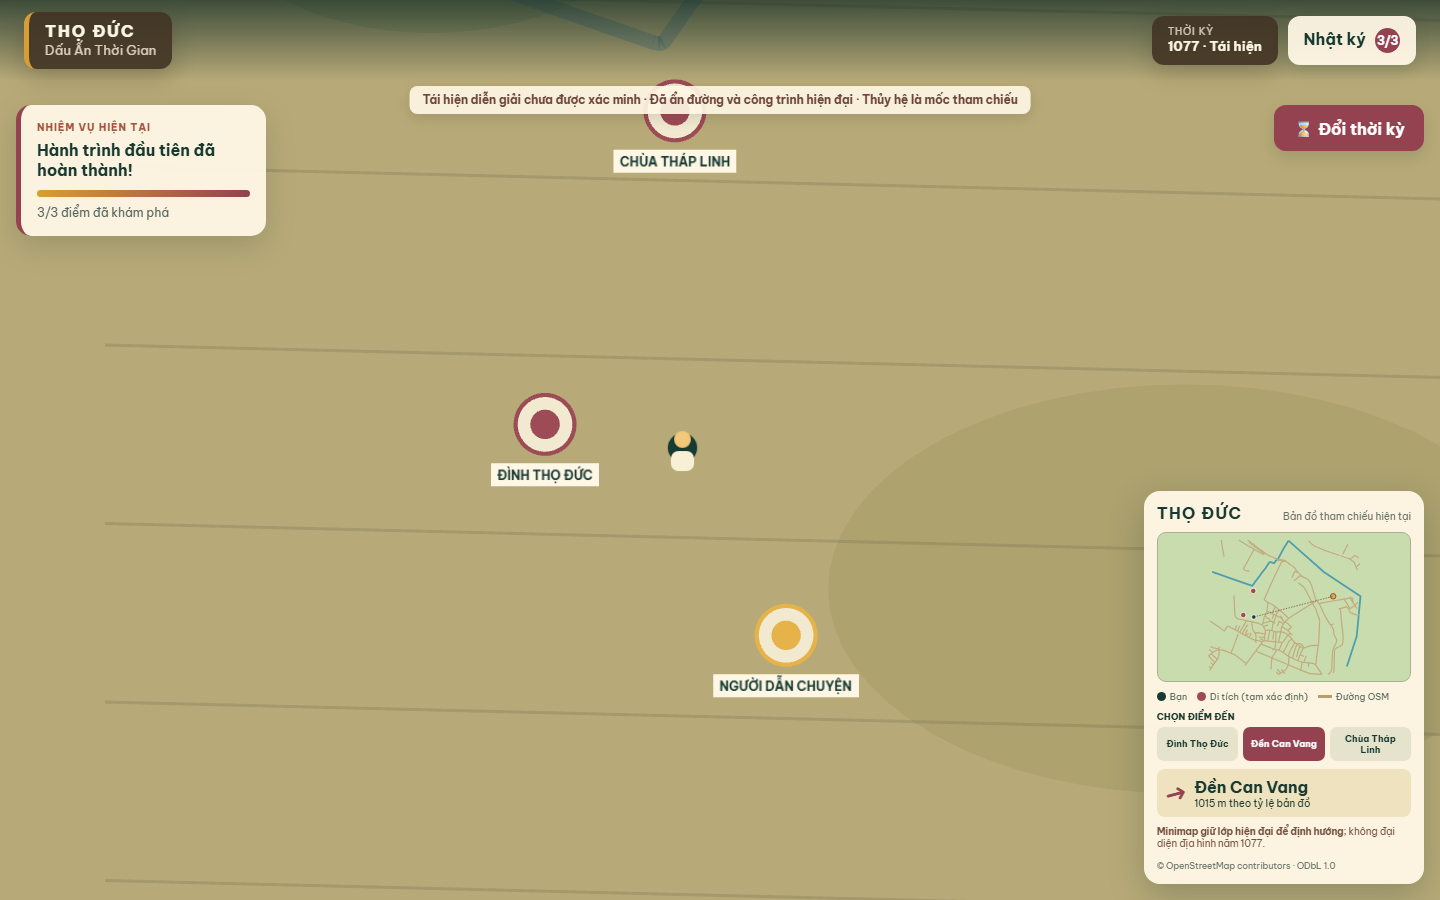
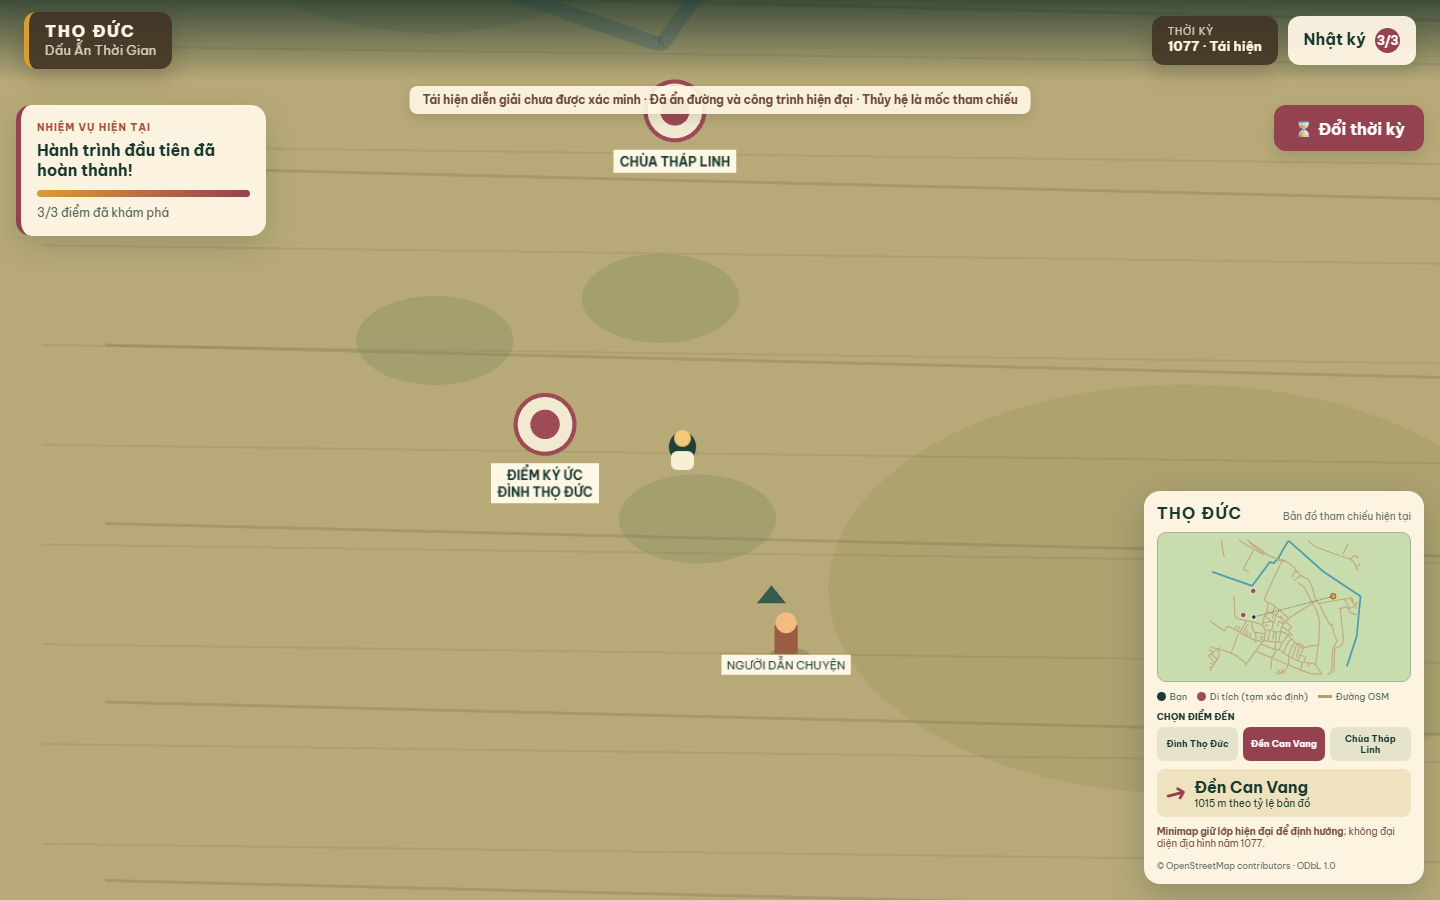
update Sprint 03A.2 – Integrate Visual Asset Foundation

Changed region(s): [[0.4688, 0.6533, 0.5938, 0.7778], [0.3438, 0.4978, 0.4375, 0.56]]

diff --git a/src/app/App.tsx b/src/app/App.tsx
@@ -1,5 +1,7 @@
 import { useCallback, useEffect, useMemo, useState } from 'react';
 import { GameCanvas } from '../game/GameCanvas';
+import { loadAssetRegistry } from '../assets/loadAssetRegistry';
+import type { AssetRegistry } from '../assets/AssetRegistry';
 import { loadContent } from '../content/loadContent';
 import { GameSession } from '../services/GameSession';
 import { SaveService } from '../services/SaveService';
@@ -16,6 +18,7 @@ type Modal = { type: 'guide'; step: number } | { type: 'location'; location: Her
 
 export default function App() {
   const [content, setContent] = useState<GameContent | null>(null);
+  const [assetRegistry, setAssetRegistry] = useState<AssetRegistry | null>(null);
   const [phase, setPhase] = useState<Phase>('loading');
   const [loadError, setLoadError] = useState('');
   const [state, setState] = useState<GameState>(createInitialState());
@@ -27,8 +30,8 @@ export default function App() {
 
   useEffect(() => {
     let active = true;
-    loadContent()
-      .then((loaded) => { if (active) { setContent(loaded); setPhase('menu'); } })
+    Promise.all([loadContent(), loadAssetRegistry()])
+      .then(([loaded, registry]) => { if (active) { setContent(loaded); setAssetRegistry(registry); setPhase('menu'); } })
       .catch((error: unknown) => { if (active) { setLoadError(error instanceof Error ? error.message : 'Không thể tải dữ liệu trò chơi.'); setPhase('error'); } });
     return () => { active = false; };
   }, []);
@@ -82,7 +85,7 @@ export default function App() {
   };
 
   if (phase === 'loading') return <main className="loading-screen"><div className="loader" /><h1>Đang mở hành trình…</h1><p>Đang tải bản đồ và dữ liệu minh họa</p></main>;
-  if (phase === 'error' || !session) return <main className="fatal-error"><h1>Không thể khởi động</h1><p>{loadError}</p><button onClick={() => window.location.reload()}>Thử lại</button></main>;
+  if (phase === 'error' || !session || !assetRegistry) return <main className="fatal-error"><h1>Không thể khởi động</h1><p>{loadError}</p><button onClick={() => window.location.reload()}>Thử lại</button></main>;
 
   if (phase === 'menu') {
     return (
@@ -107,7 +110,7 @@ export default function App() {
   const eraLabel = state.activeEra === 'present' ? 'Hiện tại' : '1077 · Tái hiện';
   return (
     <main className={`game-shell era-${state.activeEra}`}>
-      <GameCanvas session={session} />
+      <GameCanvas session={session} assetRegistry={assetRegistry} />
       <header className="game-header">
         <div className="brand-mark"><span>THỌ ĐỨC</span><small>Dấu Ấn Thời Gian</small></div>
         <div className="status-group">

diff --git a/src/game/rendering/VillageArtRenderer.ts b/src/game/rendering/VillageArtRenderer.ts
@@ -1,8 +1,9 @@
 import Phaser from 'phaser';
+import type { AssetRegistry } from '../../assets/AssetRegistry';
 import type { EraId, GeographicMap } from '../../shared/types/content';
 
 /** Procedural, original placeholder art; replaceable without changing geographic data. */
-export function renderVillageArt(scene: Phaser.Scene, layer: Phaser.GameObjects.Container, map: GeographicMap, era: EraId): void {
+export function renderVillageArt(scene: Phaser.Scene, layer: Phaser.GameObjects.Container, map: GeographicMap, era: EraId, registry: AssetRegistry): void {
   const historical = era === 'ly_1077';
   const dinh = map.heritage.find((place) => place.id === 'dinh_tho_duc')!.world;
   const texture = scene.add.graphics().lineStyle(2, historical ? 0x776b48 : 0x6b8b54, .18);
@@ -14,9 +15,14 @@ export function renderVillageArt(scene: Phaser.Scene, layer: Phaser.GameObjects.
     ].forEach(([x, y]) => layer.add(scene.add.ellipse(x, y, 150, 85, 0x7a8759, .32).setDepth(y)));
     return;
   }
-  drawCommunalHouse(scene, layer, dinh.x, dinh.y - 75);
-  [[dinh.x - 150, dinh.y - 105], [dinh.x + 135, dinh.y - 115], [dinh.x - 130, dinh.y + 75], [dinh.x + 165, dinh.y + 100], [dinh.x + 55, dinh.y + 135]].forEach(([x, y]) => drawTree(scene, layer, x, y));
-  [[dinh.x - 235, dinh.y + 45], [dinh.x + 245, dinh.y - 5], [dinh.x + 210, dinh.y + 160]].forEach(([x, y]) => drawHouse(scene, layer, x, y));
+  const communalHouse = registry.getHeritage('dinh_tho_duc', era);
+  if (communalHouse) drawCommunalHouse(scene, layer, dinh.x + communalHouse.offset.x, dinh.y + communalHouse.offset.y);
+  if (registry.get('tree-procedural')?.eras.includes(era)) {
+    [[dinh.x - 150, dinh.y - 105], [dinh.x + 135, dinh.y - 115], [dinh.x - 130, dinh.y + 75], [dinh.x + 165, dinh.y + 100], [dinh.x + 55, dinh.y + 135]].forEach(([x, y]) => drawTree(scene, layer, x, y));
+  }
+  if (registry.get('house-procedural')?.eras.includes(era)) {
+    [[dinh.x - 235, dinh.y + 45], [dinh.x + 245, dinh.y - 5], [dinh.x + 210, dinh.y + 160]].forEach(([x, y]) => drawHouse(scene, layer, x, y));
+  }
 }
 
 function drawTree(scene: Phaser.Scene, layer: Phaser.GameObjects.Container, x: number, y: number): void {

diff --git a/src/game/scenes/VillageScene.ts b/src/game/scenes/VillageScene.ts
@@ -2,6 +2,7 @@ import Phaser from 'phaser';
 import type { EraId, MapFeature } from '../../shared/types/content';
 import type { InteractionTarget } from '../../shared/events/GameEvents';
 import type { GameSession } from '../../services/GameSession';
+import type { AssetRegistry } from '../../assets/AssetRegistry';
 import { NavigationService } from '../../services/NavigationService';
 import { getEraVisualLayers } from '../../services/MapLayerService';
 import { renderVillageArt } from '../rendering/VillageArtRenderer';
@@ -24,7 +25,7 @@ export class VillageScene extends Phaser.Scene {
   private renderedEra: EraId | null = null;
   private facing: 'up' | 'down' | 'left' | 'right' = 'down';
 
-  constructor(private readonly session: GameSession) { super('village'); }
+  constructor(private readonly session: GameSession, private readonly assetRegistry: AssetRegistry) { super('village'); }
 
   create(): void {
     const { width, height } = this.session.content.map.projection.world;
@@ -125,7 +126,7 @@ export class VillageScene extends Phaser.Scene {
       this.drawLines(layers.footpaths, 0xeee1bf, 8);
       this.drawPolygons(layers.buildings, 0x9a624b, 0.95, 0x5e4635);
     }
-    renderVillageArt(this, this.eraLayer, this.session.content.map, era);
+    renderVillageArt(this, this.eraLayer, this.session.content.map, era, this.assetRegistry);
     const label = this.add.text(95, 95, historical ? 'THỌ ĐỨC · TÁI HIỆN DIỄN GIẢI 1077' : 'THỌ ĐỨC · BẢN ĐỒ HIỆN TẠI', { fontFamily: '"Be Vietnam Pro", sans-serif', fontSize: '18px', color: historical ? '#493b2c' : '#173b33', fontStyle: 'bold' });
     const note = historical ? this.add.text(95, 124, 'Không hiển thị đường/công trình hiện đại · Thủy hệ chỉ là mốc tham chiếu hiện nay', { fontFamily: '"Be Vietnam Pro", sans-serif', fontSize: '13px', color: '#584a36', backgroundColor: '#e6d7a8', padding: { x: 8, y: 5 } }) : null;
     this.eraLayer.add(note ? [label, note] : label);

diff --git a/tests/unit/AssetRegistry.test.ts b/tests/unit/AssetRegistry.test.ts
@@ -1,5 +1,6 @@
 import { describe, expect, it } from 'vitest';
 import { AssetRegistry } from '../../src/assets/AssetRegistry';
+import { loadAssetRegistry } from '../../src/assets/loadAssetRegistry';
 import { validateAssetManifest, validateHeritageVisuals } from '../../src/assets/AssetValidator';
 import manifestJson from '../../public/data/asset-manifest.json';
 import visualsJson from '../../public/data/heritage-visuals.json';
@@ -30,5 +31,9 @@ describe('Visual Asset Foundation', () => {
   it('builds base-path-safe URLs', () => {
     expect(AssetRegistry.assetUrl({ ...manifest.assets[0], path: 'art/player.png' }, '/KhamPhaThoDuc/')).toBe('/KhamPhaThoDuc/art/player.png');
     expect(AssetRegistry.assetUrl(manifest.assets[0], '/KhamPhaThoDuc/')).toBeUndefined();
+  });
+  it('surfaces a visual metadata load failure', async () => {
+    const failedFetch: typeof fetch = async () => new Response('', { status: 503 });
+    await expect(loadAssetRegistry(failedFetch)).rejects.toThrow('Unable to load visual metadata (503).');
   });
 });

diff --git a/src/game/GameCanvas.tsx b/src/game/GameCanvas.tsx
@@ -1,20 +1,21 @@
 import { useEffect, useRef } from 'react';
 import type Phaser from 'phaser';
+import type { AssetRegistry } from '../assets/AssetRegistry';
 import type { GameSession } from '../services/GameSession';
 import { createGame } from './config/createGame';
 
-export function GameCanvas({ session }: { session: GameSession }) {
+export function GameCanvas({ session, assetRegistry }: { session: GameSession; assetRegistry: AssetRegistry }) {
   const hostRef = useRef<HTMLDivElement>(null);
   const gameRef = useRef<Phaser.Game | null>(null);
 
   useEffect(() => {
     if (!hostRef.current || gameRef.current) return;
-    gameRef.current = createGame(hostRef.current, session);
+    gameRef.current = createGame(hostRef.current, session, assetRegistry);
     return () => {
       gameRef.current?.destroy(true);
       gameRef.current = null;
     };
-  }, [session]);
+  }, [assetRegistry, session]);
 
   return <div className="game-canvas" ref={hostRef} aria-label="Bản đồ địa lý Thọ Đức" />;
 }

diff --git a/src/assets/loadAssetRegistry.ts b/src/assets/loadAssetRegistry.ts
@@ -1,0 +1,18 @@
+import { AssetRegistry } from './AssetRegistry';
+import type { AssetManifest, HeritageVisual } from './types';
+
+async function loadJson(url: string, fetcher: typeof fetch): Promise<unknown> {
+  const response = await fetcher(url);
+  if (!response.ok) throw new Error(`Unable to load visual metadata (${response.status}).`);
+  return response.json();
+}
+
+/** Loads and validates declarative visual metadata from the Vite public base. */
+export async function loadAssetRegistry(fetcher: typeof fetch = fetch): Promise<AssetRegistry> {
+  const baseUrl = import.meta.env.BASE_URL;
+  const [manifest, heritageVisuals] = await Promise.all([
+    loadJson(`${baseUrl}data/asset-manifest.json`, fetcher),
+    loadJson(`${baseUrl}data/heritage-visuals.json`, fetcher),
+  ]);
+  return new AssetRegistry(manifest as AssetManifest, heritageVisuals as HeritageVisual[]);
+}

diff --git a/src/game/config/createGame.ts b/src/game/config/createGame.ts
@@ -1,8 +1,9 @@
 import Phaser from 'phaser';
+import type { AssetRegistry } from '../../assets/AssetRegistry';
 import type { GameSession } from '../../services/GameSession';
 import { VillageScene } from '../scenes/VillageScene';
 
-export function createGame(parent: HTMLElement, session: GameSession): Phaser.Game {
+export function createGame(parent: HTMLElement, session: GameSession, assetRegistry: AssetRegistry): Phaser.Game {
   return new Phaser.Game({
     type: Phaser.AUTO,
     parent,
@@ -19,6 +20,6 @@ export function createGame(parent: HTMLElement, session: GameSession): Phaser.Ga
       default: 'arcade',
       arcade: { gravity: { x: 0, y: 0 }, debug: false },
     },
-    scene: [new VillageScene(session)],
+    scene: [new VillageScene(session, assetRegistry)],
   });
 }

diff --git a/tests/e2e/game.spec.ts b/tests/e2e/game.spec.ts
@@ -25,6 +25,13 @@ test('mở trang và bắt đầu một phiên chơi', async ({ page }) => {
   await expect(page.locator('canvas')).toBeVisible();
 });
 
+test('báo lỗi khi không thể tải Asset Registry', async ({ page }) => {
+  await page.route('**/data/asset-manifest.json', (route) => route.fulfill({ status: 503, contentType: 'application/json', body: '{}' }));
+  await page.goto('./');
+  await expect(page.getByRole('heading', { name: 'Không thể khởi động' })).toBeVisible();
+  await expect(page.getByText(/Unable to load visual metadata \(503\)/)).toBeVisible();
+});
+
 test('minimap chọn điểm đến và hiển thị khoảng cách', async ({ page }) => {
   await page.goto('./');
   await page.getByRole('button', { name: 'Bắt đầu khám phá' }).click();
